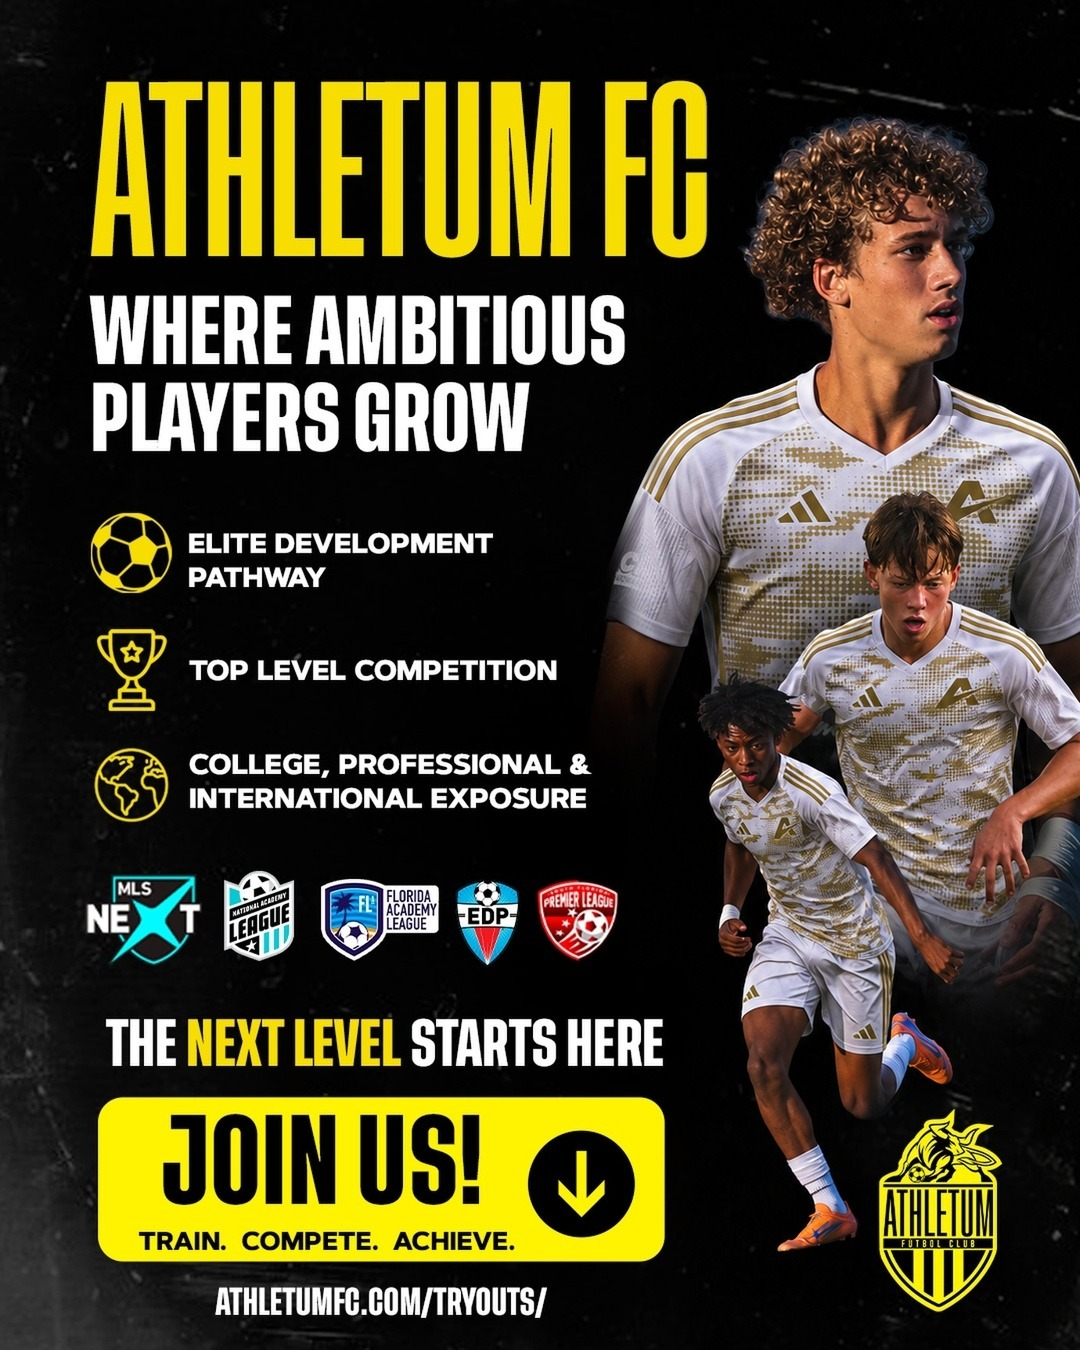
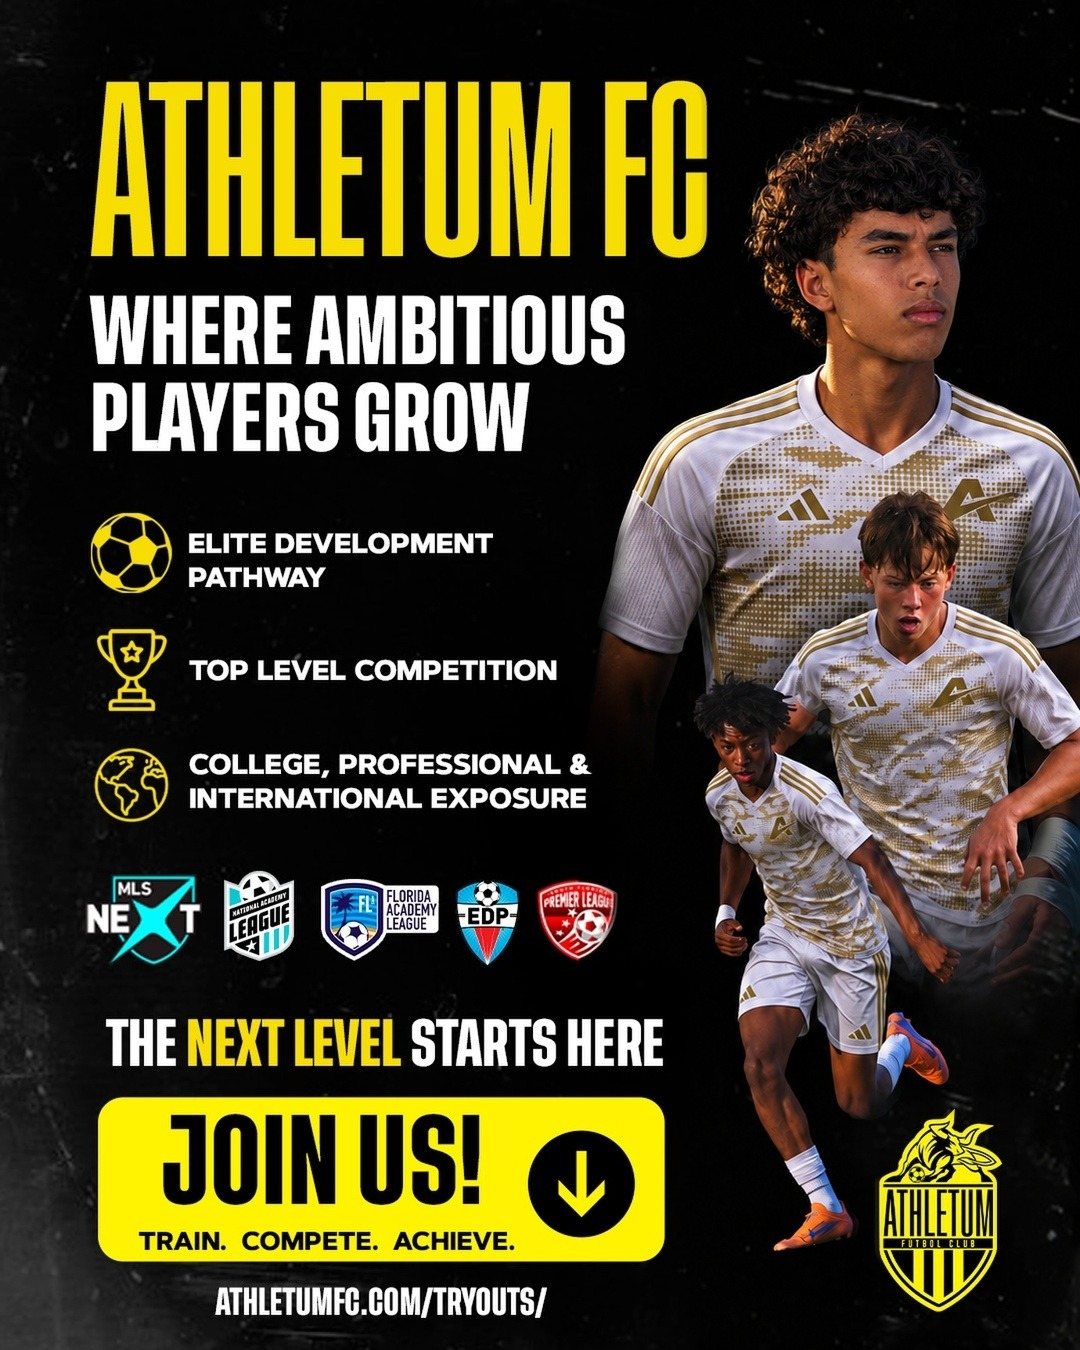
S6: jugador de arriba reemplazado (ya no está en el club)

Changed region(s): [[0.55, 0.0622, 1.0, 0.9333], [0.9778, 0.0622, 1.0, 0.0933], [0.55, 0.6533, 0.5806, 0.6844]]

diff --git a/index.html b/index.html
@@ -67,8 +67,8 @@ footer{margin-top:40px;color:var(--muted);font-size:14px;border-top:1px solid va
 <article class="ad base" data-id="S1">
   <header><span class="num">1</span><h3>STATIC-1 · HERO &quot;Your next level starts here&quot;</h3><span class="estado" data-estado>Corregida 03-11 · por aprobar</span></header>
   <div class="cuerpo">
-    <div class="media"><img src="assets/S1.jpg?v=11" alt="STATIC-1 · HERO &quot;Your next level starts here&quot;" loading="lazy">
-      <a class="dl" href="assets/S1_1080.jpg?v=11" target="_blank" rel="noopener">Ver a tamaño real</a>
+    <div class="media"><img src="assets/S1.jpg?v=12" alt="STATIC-1 · HERO &quot;Your next level starts here&quot;" loading="lazy">
+      <a class="dl" href="assets/S1_1080.jpg?v=12" target="_blank" rel="noopener">Ver a tamaño real</a>
       <p class="nota-pieza">Corregida según su nota (03-11): cambia solo el jugador del centro (el anterior ya sale en el post &quot;Where ambitious players grow&quot;); los de los lados, titular, logos y botón quedan igual. Los tres con la camiseta 2026-27 blanca y dorada. Para redes hay una versión igual sin el botón.</p></div>
     <div class="copy">
       <div class="lbl">Texto principal · inglés <span class="hint">· se puede editar</span></div>
@@ -90,8 +90,8 @@ footer{margin-top:40px;color:var(--muted);font-size:14px;border-top:1px solid va
 </article><article class="ad pend" data-id="S3">
   <header><span class="num">2</span><h3>STATIC-3 · PATHWAY &quot;One club. The whole pathway.&quot;</h3><span class="estado" data-estado>Rehecha 03-11 · por aprobar</span></header>
   <div class="cuerpo">
-    <div class="media"><img src="assets/S3.jpg?v=11" alt="STATIC-3 · PATHWAY &quot;One club. The whole pathway.&quot;" loading="lazy">
-      <a class="dl" href="assets/S3_1080.jpg?v=11" target="_blank" rel="noopener">Ver a tamaño real</a>
+    <div class="media"><img src="assets/S3.jpg?v=12" alt="STATIC-3 · PATHWAY &quot;One club. The whole pathway.&quot;" loading="lazy">
+      <a class="dl" href="assets/S3_1080.jpg?v=12" target="_blank" rel="noopener">Ver a tamaño real</a>
       <p class="nota-pieza">Rehecha con el dibujo del director (03-11): pirámide de escalones. Abajo Pre-Academy (logo Juventus Academy Miami) y Competitive (logos de las 4 ligas); luego dos escalones al mismo nivel, Juventus Residency y MLS NEXT; y encima los tres destinos a los que se llega desde los dos: MLS NEXT Pro, College (NCAA, NJCAA y NAIA) y en la cima Pro / Semi-pro around the world. Versión anterior (03-11, mañana): otro jugador (el de antes ya sale en el HERO) con la camiseta 2026-27 y escalera de 4 niveles: Pre-Academy (logo Juventus Academy Miami), Competitive (logos de las 4 ligas), MLS NEXT (con su logo) y arriba College (NCAA, NJCAA y NAIA) y Pro. Antes: escalera de 3 escalones: Pre-Academy (logo Juventus Academy Miami), Division 3 · 2 · 1 · Elite (logos de EDP Florida, Florida Academy League, South Florida Premier League y National Academy League) y MLS NEXT (Academy y Homegrown juntos, con su logo). El texto también se ajustó a los 3 niveles.</p></div>
     <div class="copy">
       <div class="lbl">Texto principal · inglés <span class="hint">· se puede editar</span></div>
@@ -113,9 +113,9 @@ footer{margin-top:40px;color:var(--muted);font-size:14px;border-top:1px solid va
 </article><article class="ad pend" data-id="S6">
   <header><span class="num">3</span><h3>STATIC-6 · &quot;Where ambitious players grow&quot;</h3><span class="estado" data-estado>Nueva 03-11 · por aprobar</span></header>
   <div class="cuerpo">
-    <div class="media"><img src="assets/S6.jpg?v=11" alt="STATIC-6 · &quot;Where ambitious players grow&quot;" loading="lazy">
-      <a class="dl" href="assets/S6_1080.jpg?v=11" target="_blank" rel="noopener">Ver a tamaño real</a>
-      <p class="nota-pieza">Nueva (reunión 03-11): el post de Juventus Academy Miami del 16-07-2026, actualizado para la pauta: los tres jugadores con la camiseta 2026-27 blanca y dorada; textos, iconos, logos de las ligas, botón y escudo quedan como en el original.</p></div>
+    <div class="media"><img src="assets/S6.jpg?v=12" alt="STATIC-6 · &quot;Where ambitious players grow&quot;" loading="lazy">
+      <a class="dl" href="assets/S6_1080.jpg?v=12" target="_blank" rel="noopener">Ver a tamaño real</a>
+      <p class="nota-pieza">Nueva (reunión 03-11): el post de Juventus Academy Miami del 16-07-2026, actualizado para la pauta: el jugador de arriba se cambió por otro jugador actual del club y los tres llevan la camiseta 2026-27 blanca y dorada; textos, iconos, logos de las ligas, botón y escudo quedan como en el original.</p></div>
     <div class="copy">
       <div class="lbl">Texto principal · inglés <span class="hint">· se puede editar</span></div>
       <div class="tp ed" contenteditable="true" spellcheck="true" data-campo="texto">Where ambitious players grow. ⚽🔥<br><br>At Athletum FC, players train in a competitive environment built to help them grow, compete and reach their full potential: an elite development pathway, top-level competition and exposure to college, professional and international soccer.<br><br>The next level starts with one free tryout. Register in two minutes 👇</div>
